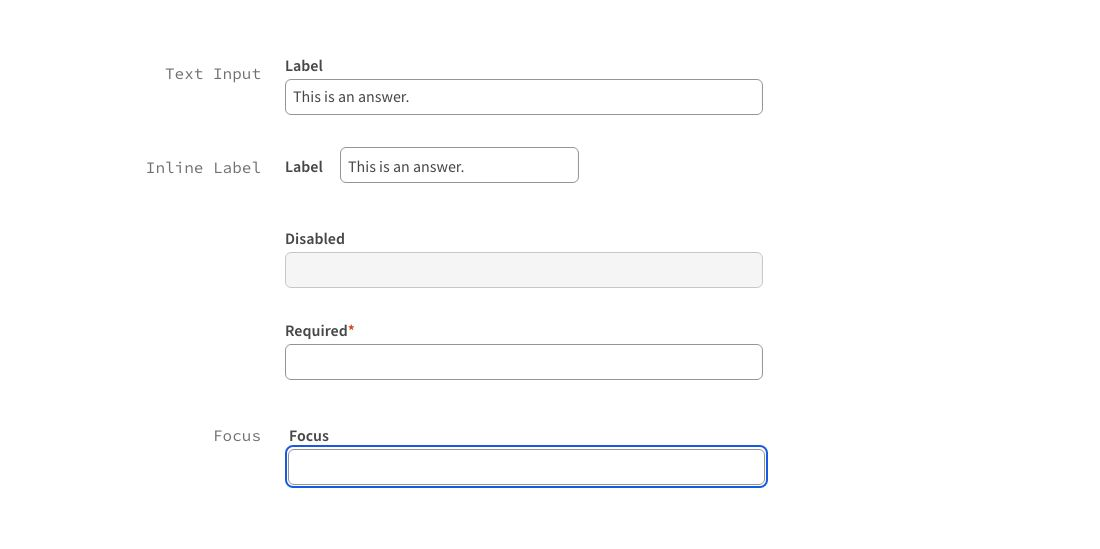
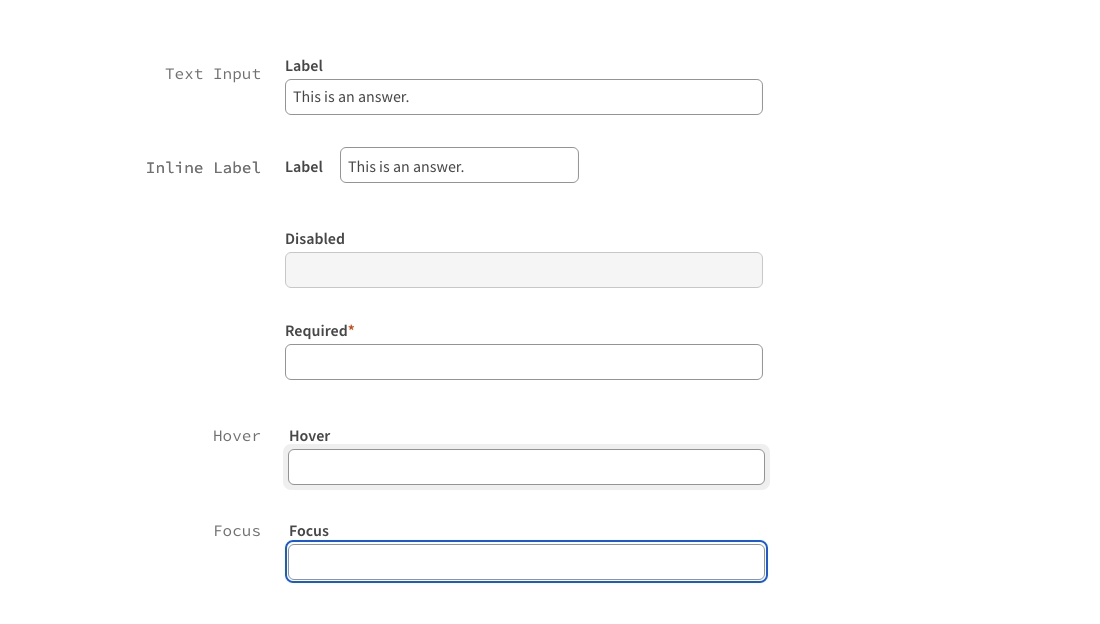
UDS-261: Add mockup to TextInput

diff --git a/website/src/react/components/websiteContent/library/components/forms/TextInput/TextInputDocumentation.jsx b/website/src/react/components/websiteContent/library/components/forms/TextInput/TextInputDocumentation.jsx
@@ -19,11 +19,8 @@ import {
   TableWrapper
 } from '@utahdts/utah-design-system';
 import { Link } from 'react-router-dom';
-import textInputClassFocusPng from '../../../../../../../static/images/screenshots/components/textInput/textInput-class-focus.png';
-import textInputClassHoverPng from '../../../../../../../static/images/screenshots/components/textInput/textInput-class-hover.png';
+import formInputs01 from '../../../../../../../static/images/mockups/FormInputs01.jpg';
 import textInputSearchPng from '../../../../../../../static/images/screenshots/components/textInput/textInput-search.png';
-import textInputValidationPng from '../../../../../../../static/images/screenshots/components/textInput/textInput-validation.png';
-import textInputPng from '../../../../../../../static/images/screenshots/components/textInput/textInput.png';
 import pageUrls from '../../../../../routing/pageUrls';
 import SandboxExample from '../../../../../sandbox/SandboxExample';
 import StaticExample from '../../../../../staticExamples/StaticExample';
@@ -31,6 +28,7 @@ import TextInputExampleCodeReact from './TextInputExampleCodeReact';
 import TextInputPrimaryExampleProps from './TextInputExampleProps';
 import TextInputExampleRender from './TextInputExampleRender';
 import PreCode from '../../../../../preCode/PreCode';
+import LightBox from '../../../../../lightbox/LightBox';
 
 const propTypes = {};
 const defaultProps = {};
@@ -52,18 +50,7 @@ function TextInputDocumentation() {
       />
       <StaticExample
         title="Text Input"
-        renderedExample={(
-          <div className="flex-col">
-            <div className="flex-row">
-              <img src={textInputPng} alt="Example Text Input" />
-              <img src={textInputValidationPng} alt="Example Text Input validation" />
-            </div>
-            <div className="flex-row">
-              Hover <img src={textInputClassHoverPng} alt="Example Text Input Hover" />
-              Focus <img src={textInputClassFocusPng} alt="Example Text Input Focus" />
-            </div>
-          </div>
-        )}
+        renderedExample={<LightBox image={formInputs01} alt="Form Inputs" className="flex-4up-gap" />}
         quickTips={(
           <ul>
             <li><code>Text Input</code> is comprised of a <code>label</code> and an <code>input box</code>. Generally, the <code>label</code> should be above the <code>input box</code>.</li>
@@ -77,7 +64,7 @@ function TextInputDocumentation() {
 
       <StaticExample
         title="Search Input"
-        renderedExample={(<div className="flex-col"><img src={textInputSearchPng} alt="Example Text Input Search" /></div>)}
+        renderedExample={<LightBox image={textInputSearchPng} alt="Example Text Input Search" className="flex-4up-gap" />}
         quickTips={(
           <ul>
             <li>The <code>search input box</code> should have a <code>placeholder</code>. The <code>label</code> is still visible to screen readers. (Use the css class <code>visually-hidden</code> to hide the <code>label</code> on the screen.)</li>
